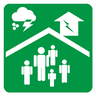
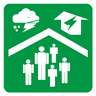
화면 갱신: seoul-flood-twin 231b600

Changed region(s): [[0.0312, 0.0938, 0.9375, 0.9062], [0.0938, 0.0625, 0.4375, 0.3438], [0.7812, 0.4375, 0.8125, 0.4688]]

diff --git a/js/map.js b/js/map.js
@@ -1,5 +1,5 @@
 // 지도: OpenFreeMap positron(포스터 결로 다시 칠함) + 3D 지형 · 힐셰이드 + 물(canvas) + 구 경보 색 + 도로 · 건물(가까이서만) + 랜드마크 + 대피소.
-import { addLandmarks3D } from './landmarks3d.js?v=6c9ea3e';
+import { addLandmarks3D } from './landmarks3d.js?v=231b600';
 
 const BASE = location.href.replace(/[?#].*$/, '').replace(/[^/]*$/, '');
 const BUILD_Z = 14; // 건물 · 도로 면이 보이는 줌. 13.5 에선 z13 타일(한 장에 건물 수십만 동)을 써서 확대 때 렉 → z14 타일만 쓰게 14 부터(10/31)
@@ -255,7 +255,8 @@ export async function createMap({ container, meta, onSelect, view, colors, barri
     if (terrainOn && z >= 13) { map.setTerrain(null); terrainOn = false; }
     else if (!terrainOn && z < 12.8) { map.setTerrain({ source: 'dem', exaggeration: 1.5 }); terrainOn = true; }
   };
-  map.on('zoom', terrainByZoom); terrainByZoom();
+  // 확대 · 축소 '도중'(zoom 이벤트)에 지형을 바꾸면 휠 · 핀치 확대가 그 자리에서 멈춤(11/2 재현: 13.07 에서 고정) → 움직임이 끝난 뒤(moveend)에만 바꿈
+  map.on('moveend', terrainByZoom); terrainByZoom();
   map.addLayer({ id: 'hillshade', type: 'hillshade', source: 'dem-shade', paint: { 'hillshade-exaggeration': ['interpolate', ['linear'], ['zoom'], 13, 0.75, 15.5, 0.15], 'hillshade-shadow-color': '#4F5C40', 'hillshade-highlight-color': 'rgba(250, 251, 240, 0.55)', 'hillshade-accent-color': '#6E7A58' } },
     map.getStyle().layers.find((l) => ['transportation', 'building'].includes(l['source-layer']))?.id); // 숲 색 위 · 도로 아래
   } catch (e) { console.info('지형 없이 계속:', e.message); }
@@ -358,19 +359,20 @@ export async function createMap({ container, meta, onSelect, view, colors, barri
     'circle-color': ['case', ['==', ['get', '침수위험구역포함'], '포함'], '#FFFFFF', '#262626'],
     'circle-stroke-color': ['case', ['==', ['get', '침수위험구역포함'], '포함'], '#8D0022', '#FFFFFF'],
     'circle-stroke-width': ['case', ['==', ['get', '침수위험구역포함'], '포함'], 2, 1] } });
-  // 확대(≥ 13)하면 점 대신 임시주거시설 표지 그림(송파 · 동두천 표지판을 다시 그림, web/shelter.png 96 px). 작게 · 겹쳐도 다 보이게
+  // 대피시설 = 임시주거시설 표지 그림(송파구 표지판 사진 격자 실측으로 다시 그림, web/shelter.png 96 px), 줌 11 부터 작게 · 겹쳐도 다 보이게
   try {
     const ic = await map.loadImage(BASE + 'shelter.png');
     map.addImage('shelter-ic', ic.data, { pixelRatio: 4 });
-    map.setLayerZoomRange('shelters', 11, 13);
-    map.addLayer({ id: 'shelters-icon', type: 'symbol', source: 'shelters', minzoom: 13, layout: {
-      'icon-image': 'shelter-ic', 'icon-size': ['interpolate', ['linear'], ['zoom'], 13, 0.6, 16, 0.85], 'icon-allow-overlap': true, 'icon-ignore-placement': true } });
+    map.setLayoutProperty('shelters', 'visibility', 'none'); // 예전 검은 점은 안 씀(11/2 승우) — 그림을 못 불러올 때만 점
+    map.addLayer({ id: 'shelters-icon', type: 'symbol', source: 'shelters', minzoom: 11, layout: {
+      'icon-image': 'shelter-ic', 'icon-size': ['interpolate', ['linear'], ['zoom'], 11, 0.38, 13, 0.6, 16, 0.85], 'icon-allow-overlap': true, 'icon-ignore-placement': true } });
   } catch (e) { console.info('대피시설 그림 없이 점으로:', e.message); }
   // 범례 '대피시설' 누르기 = 지도에서 켜기 · 끄기(경로 안내는 그대로 됨)
   const shTog = document.getElementById('shelter-tog');
   shTog?.addEventListener('click', () => {
     const on = shTog.getAttribute('aria-pressed') !== 'true'; shTog.setAttribute('aria-pressed', String(on));
-    for (const id of ['shelters', 'shelters-icon']) if (map.getLayer(id)) map.setLayoutProperty(id, 'visibility', on ? 'visible' : 'none');
+    const id = map.getLayer('shelters-icon') ? 'shelters-icon' : 'shelters'; // 그림이 있으면 그림만, 없으면 점
+    map.setLayoutProperty(id, 'visibility', on ? 'visible' : 'none');
   });
 
   map.addSource('mountains', { type: 'geojson', data: { type: 'FeatureCollection', features: MOUNTAINS.map(([name, x, y]) => ({ type: 'Feature', properties: { name }, geometry: { type: 'Point', coordinates: [x, y] } })) } });

diff --git a/js/app.js b/js/app.js
@@ -1,10 +1,10 @@
 // 상태 S 하나를 슬라이더 · 지도 · 패널이 같이 봄. 슬라이더 → rAF 로 한 번에 갱신(ARSM 곡선 포함).
-import { alert, barrierShare, demand, pumpLevelCm, recovered } from './model.js?v=6c9ea3e';
-import { createMap } from './map.js?v=6c9ea3e';
-import { initPanels } from './panels.js?v=6c9ea3e';
-import { createRain } from './rain.js?v=6c9ea3e';
-import { initRoute } from './route.js?v=6c9ea3e';
-import { initWeather } from './weather.js?v=6c9ea3e';
+import { alert, barrierShare, demand, pumpLevelCm, recovered } from './model.js?v=231b600';
+import { createMap } from './map.js?v=231b600';
+import { initPanels } from './panels.js?v=231b600';
+import { createRain } from './rain.js?v=231b600';
+import { initRoute } from './route.js?v=231b600';
+import { initWeather } from './weather.js?v=231b600';
 
 const [M, meta] = await Promise.all(['data/model.json', 'data/meta.json'].map((u) => fetch(u).then((r) => r.json())));
 const Q = new URLSearchParams(location.search);

diff --git a/index.html b/index.html
@@ -8,7 +8,7 @@
 <link rel="icon" type="image/png" href="icon.png"><!-- 고려대 호랑이(문장에서 호랑이만, 크림슨) -->
 <link rel="apple-touch-icon" href="apple-touch-icon.png">
 <link rel="stylesheet" href="https://unpkg.com/maplibre-gl@4.7.1/dist/maplibre-gl.css">
-<link rel="stylesheet" href="css/twin.css?v=6c9ea3e">
+<link rel="stylesheet" href="css/twin.css?v=231b600">
 <script src="https://unpkg.com/maplibre-gl@4.7.1/dist/maplibre-gl.js"></script>
 <script src="https://cdn.jsdelivr.net/npm/chart.js@4.4.1/dist/chart.umd.min.js"></script>
 </head>
@@ -103,6 +103,6 @@
 
 <div class="scrim" aria-hidden="true"></div>
 <div class="toast" id="toast" role="status" aria-live="polite"></div>
-<script type="module" src="js/app.js?v=6c9ea3e"></script>
+<script type="module" src="js/app.js?v=231b600"></script>
 </body>
 </html>

diff --git a/js/route.js b/js/route.js
@@ -1,6 +1,6 @@
 // 대피 경로: 지도에 핀을 찍으면 계단을 피해 가장 가까운 대피시설까지 걷는 길(침수 수심과 무관, 11/2 승우).
 // 길 = OpenStreetMap 걷는 길(web/data/walk/{구}.json, prep/fetch_walk.py). 강우가 바뀌면 다시 찾음.
-import { BUILD_OP } from './map.js?v=6c9ea3e';
+import { BUILD_OP } from './map.js?v=231b600';
 export const SPEED = [0.47, 0.47, 0.65, 0.65, 0.65, 0.65]; // m/s, 시민 유형 순서 — model.json evac.speed_ms 와 같음(동일본대지진 도보 대피 실측, prep/persona.py)
 const M_LAT = 110540, MAX_M = 6000, NEAR = 0.03;      // 위도 1° ≈ m, 6 km 넘으면 포기, 핀 주변 약 3 km 구만 불러옴
 

diff --git a/js/panels.js b/js/panels.js
@@ -1,5 +1,5 @@
 // 패널: 왼쪽 슬라이더 · 위 지표 줄 · 오른쪽 선택 구(경보 문장 + 위험 인원 막대 · ARSM 곡선).
-import { sentence, demand, arsmCurve, lifeShown, volunteerPlan, capacity } from './model.js?v=6c9ea3e';
+import { sentence, demand, arsmCurve, lifeShown, volunteerPlan, capacity } from './model.js?v=231b600';
 
 export const RES = [
   { k: 'shelter', f: 'shelter_cap', name: '대피시설 수용 인원', short: '대피시설', unit: '명' },
